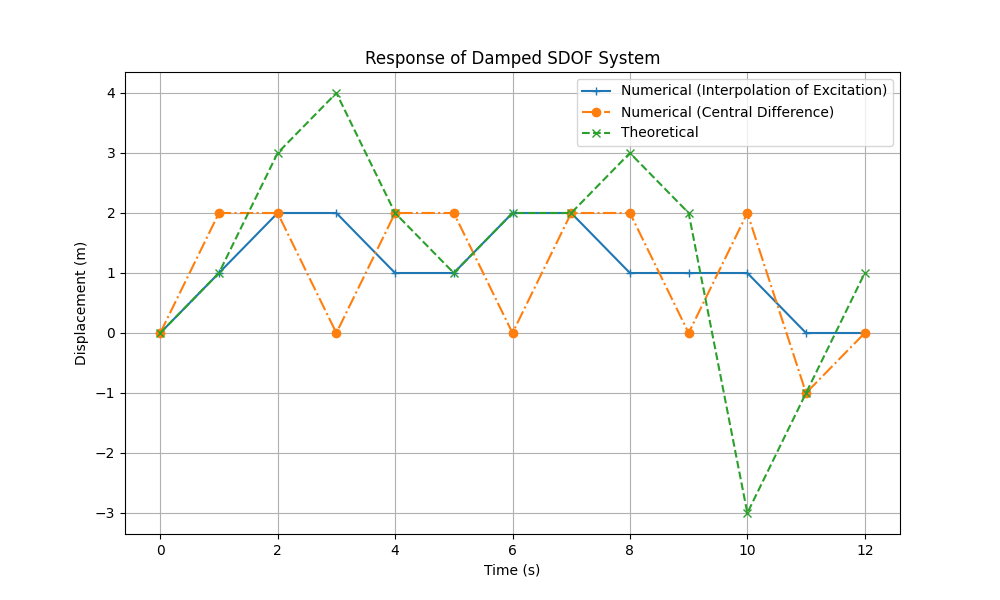
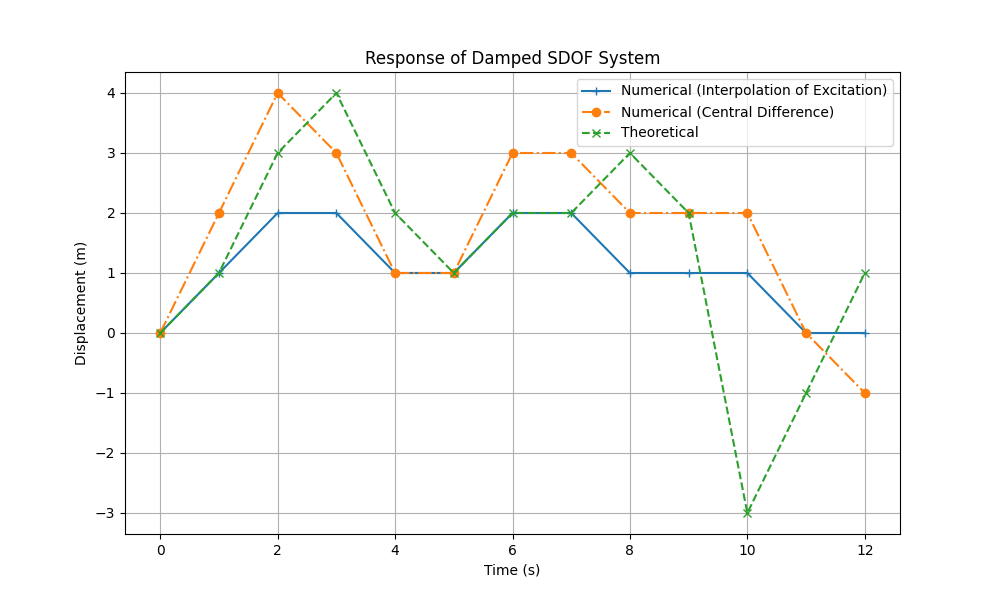
A2_Q3 Calculation corrected

diff --git a/Assignment_2/Question3.py b/Assignment_2/Question3.py
@@ -23,10 +23,10 @@ p = np.zeros_like(t)
 x = np.zeros_like(t)
 u_prev = 2
 x[0] = 0
-p[0] = force[0] - 400*u_prev - 350*x[0]
+p[0] = force[0] - 400*u_prev + 250*x[0]
 x[1] = p[0]/600
 for i in range(1, len(t)-1):
-    p[i] = force[i] - 400*x[i-1] - 350*x[i]
+    p[i] = force[i] - 400*x[i-1] + 250*x[i]
     x[i+1] = p[i]/600
 
 

diff --git a/Assignment_2/Question_3.md b/Assignment_2/Question_3.md
@@ -40,7 +40,7 @@ $\hat{\hat{x_0}}$ (acceleration) = 4
 $u_{-1}$ = 2  
 $\hat{k}$ = 600  
 a = 400  
-b = 350  
+b = -250  
 
 #### Initial Condition
 $x_0$ = 0  
